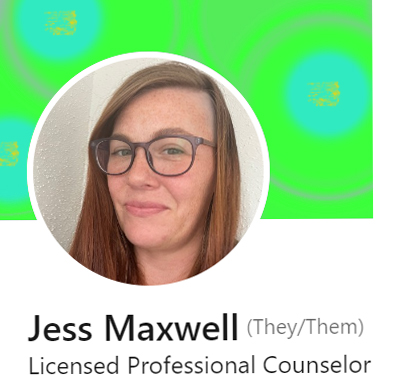
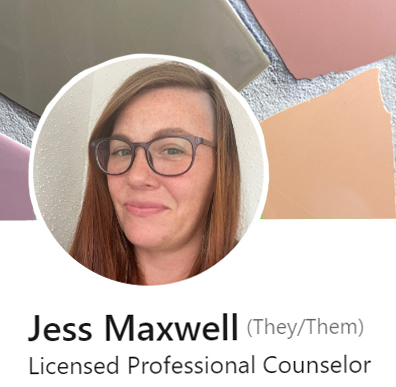
replace jess photo

diff --git a/index.html b/index.html
@@ -9,37 +9,44 @@
    <link rel="icon" type="image/png" href="favicon.png" />
    <link href="jess.css" rel="stylesheet" type='text/css'> 
     <link href="https://cdn.jsdelivr.net/npm/bootstrap@5.3.3/dist/css/bootstrap.min.css" rel="stylesheet" integrity="sha384-QWTKZyjpPEjISv5WaRU9OFeRpok6YctnYmDr5pNlyT2bRjXh0JMhjY6hW+ALEwIH" crossorigin="anonymous">
-    <link href='https://fonts.googleapis.com/css?family=Cinzel|Julius+Sans+One|Open+Sans' rel='stylesheet' type='text/css'>   
+    <link href='https://fonts.googleapis.com/css?family=Cinzel|Julius+Sans+One' rel='stylesheet' type='text/css'>   
+    <link href="https://fonts.googleapis.com/css?family=Open+Sans" rel="stylesheet">
 </head>
-<body>  
-    <div class="top-banner fixed-top">
-        <div class="container-fluid">
-            <div class="row p-2">
-                <div class="top-contact me text-end">
-                    <a class="pe-4" href="tel:2147630068">214-763-0068</a>
-                    <a href="mailto:jlmaxwellprofessional@gmail.com?subject=Contact from jlmaxwellprofessional@gmail.com website" target="_blank" rel="noopener">jlmaxwellprofessional@gmail.com</a>  
-                </div>
-            </div>   
+<body>
+    <div class="fixed-top">  
+        <div class="top-banner">
+            <div class="container-fluid">
+                <div class="row">
+                    <div class="top-banner me text-end">
+                        <a class="pe-4" href="tel:2147630068">214-763-0068</a>
+                        <a href="mailto:jlmaxwellprofessional@gmail.com?subject=Contact from jlmaxwellprofessional@gmail.com website" target="_blank" rel="noopener">jlmaxwellprofessional@gmail.com</a>  
+                    </div>
+                </div>   
+            </div>
         </div>
-    </div> 
-    <div class="header fixed-top">  
-        <div class="container-fluid">
-            <h2 class="display-5 font-2 section-title pt-3 "><img src="img/onion-1.png" alt="Jess Maxwell ~ Therapist, logo " width="70" height="70" class="d-inline-block align-text-bottom">
-                    maxwell counseling & associates 
-            </h2>          
-        </div>
-    </div>       
+        <div class="header">
+            <div class="container-fluid"> 
+                <h2 class="display-6 font-2 py-3 section-title">
+                    <img src="img/onion-1.png" alt="Jess Maxwell ~ Therapist, logo " width="70" height="70" class="d-inline-block align-text-bottom">
+                        maxwell counseling & associates 
+                </h2>
+                <h1 class="sub-title text-center ">
+                    Somatic Therapy
+                </h1>        
+            </div>
+        </div> 
+    </div>     
      <div class="page-wrap mx-auto container-fluid">    
         <section class="page-section" id="practice">
             <h1 class="sub-title pt-5 text-center">Practice</h1>
-                <div class="row pt-5">
+                <div class="row pt-2">
                     <div class="col-sm-4">
-                        <img src="img/jesscolor.jpg" class="image-fluid mx-auto d-block shadow p-3 mb-5 bg-body rounded" alt="obtained">   
+                        <img src="img/jess-in.jpg" class="image-fluid mx-auto d-block shadow p-3 mb-5 bg-body rounded" alt="image of Jess Maxwell">   
                     </div>
-                    <div class="col-sm-8 p-4"> 
+                    <div class="col-sm-8 p-2"> 
                         <p>I work with folks from up and down the lifespan, servicing virtually between TX and LA, and in person in the DFW area. I enjoying with youth and their families, who tend to be neurodiverse. I believe counseling rapport is one of the greatest facilitated in inner motivation for change. Following a strong foundation of trust is established, I like to incorporate "skills scaffolding" including goals of somatic "CAAR" skills for regulation and urge interruption. Following, I like to explore emotions, values, beliefs with a client in tandem with skills scaffolding. For the processing of "bigger" emotions, I believe in using art, time in nature, time with animals, and movement. My practice remains rooted in inclusivity and being able to offer help to people from all different backgrounds and identities.
                         <p>
-                        <p class="pt-4 font-2">
+                        <p class="pt-2 font-2">
                            I conduct individual therapy, group therapy, couples therapy, virtually in LA and TX, in-person sessions are only in Coppell, Texas.
                         </p>
                     </div>  

diff --git a/jess.css b/jess.css
@@ -1,7 +1,7 @@
 body {
 	
-	font-family: 'Open-sans', sans-serif;
-	font-size:18px;
+	font-family: 'Julius+Sans+One', sans-serif;
+	font-size:17px;
 	line-height: 1.7rem;
 	color: #4e4a3d;
 	overflow-x: hidden;
@@ -10,23 +10,19 @@ body {
 .font-2 {
 	font-family: 'Julius+Sans+One', sans-serif;
 }
-html {
+/*html {
 	min-height: 100%;
 	width: auto;
-}
+}*/
 .top-banner {
 	background-color:#dee2e6;
 	color:whitesmoke;
-	height: 3rem;
-}
-.top-contact a {
-	color:#696558; 	
 }
 .header {
-
-	margin-top: 2.8rem;
-	background-color:#d19c96;
-	background-color:#d3abbc;
+	background-color:#f4bba7;
+}
+.peach { 
+	color: #f4bba7;
 }
 .tan {
 	color:#ddae90;
@@ -108,7 +104,7 @@ hr {
 }
 .page-section {
 	padding-top: 100px;
-	padding-bottom:50px;
+	padding-bottom:20px;
 }
 .home-bg {
     background-image: url("img/jesscolor.jpg");
